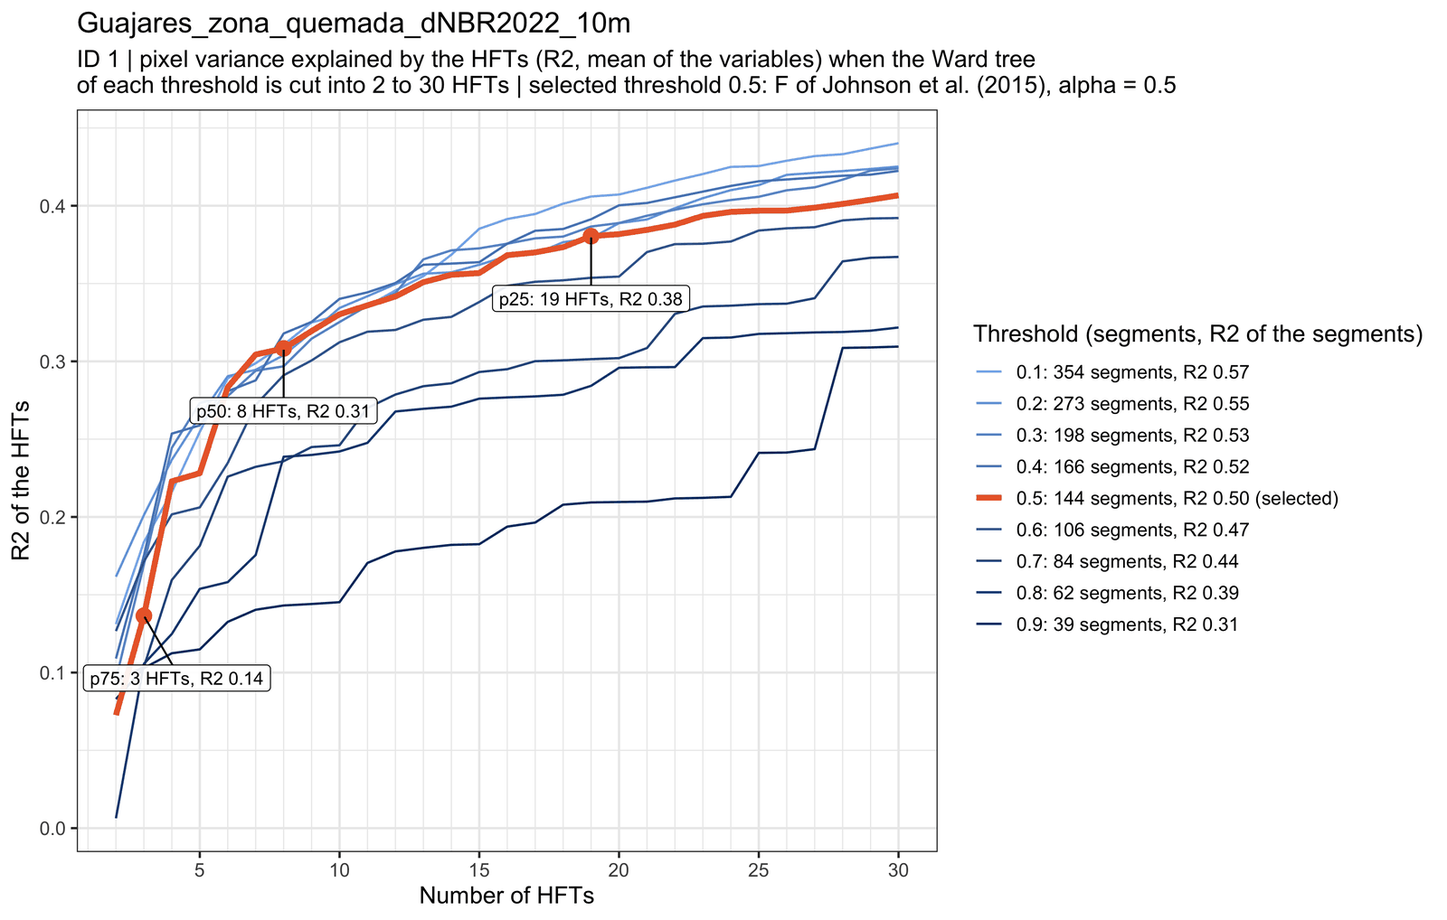
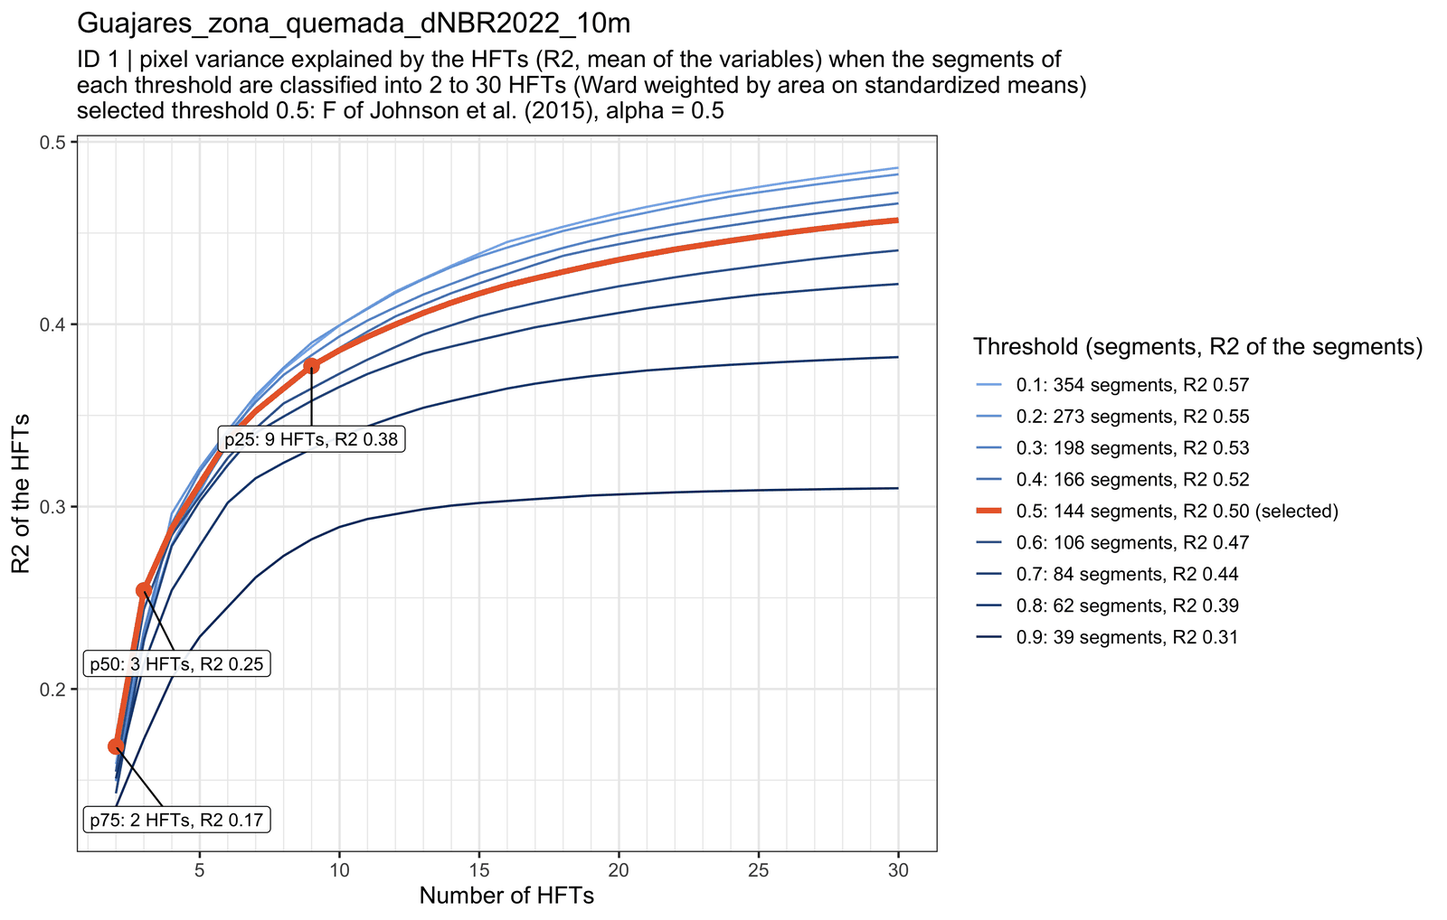
Classify the segments with Ward weighted by area by default
- New CLASS_METHOD option in config.py: 'ward_area' (default) joins the
  segments with Ward's method weighted by their number of pixels, on
  their mean (or median) of every variable standardised with the
  standard deviation of the pixels; 'ward_area_kmeans' adds a weighted
  k-means consolidation; 'ward' keeps the original method (means and
  variances rescaled 0-1, unweighted)
- The NMDS, the cophenetic correlation and the R² curves use the
  method chosen; CLASS_METHOD is an input of the last step in
  run_state.json
- README explains the methods in A6 with a test on the Guajares data
  (R², Jeffries-Matusita distance and silhouette of the HFTs), and the
  example R² figure is made with the new default

diff --git a/segm_optim/config.py b/segm_optim/config.py
@@ -89,6 +89,19 @@ THRESHOLD_ALPHA = 0.5
 #           segmentos deja menos segmentos sin vecinos.
 MORAN_NEIGHBOURS = 'rook'
 
+# CLASIFICACIÓN DE LOS SEGMENTOS DEL UMBRAL ELEGIDO EN HFTs (moranvar_plots.R), con el método de Ward:
+# 'ward_area'        = Ward ponderado por el nº de píxeles de cada segmento, sobre su media (o mediana,
+#                      STAT_AGG) de cada variable tipificada con la desviación típica de los píxeles: los
+#                      HFTs reducen al mínimo la varianza de los píxeles dentro de ellos.
+# 'ward_area_kmeans' = 'ward_area' y después k-medias ponderadas: cada segmento pasa al HFT de media más
+#                      próxima. Mejora algo la separabilidad, pero los HFTs de los cortes de SIMIL = 3 ya no
+#                      están exactamente anidados.
+# 'ward'             = Ward sin ponderar sobre las medias y las varianzas de los segmentos reescaladas a
+#                      0-1 (el método original de eHabitat+).
+# En la prueba con Guajares 'ward_area' dio HFTs más separables que 'ward' con todos los umbrales. Su árbol
+# tiene las uniones más altas al final, así que los cortes de SIMIL = 3 dan menos HFTs (README, A6).
+CLASS_METHOD = 'ward_area'
+
 # NÚMERO DE HFTs (corte del árbol de clasificación jerárquica en moranvar_plots.R):
 # 1 = Corta en el percentil 25 de las alturas de fusión, con límite superior de HFTs.
 # 2 = No agrupa segmentos: el número de HFTs lo fijan los límites superiores

diff --git a/segm_optim/hft_state.py b/segm_optim/hft_state.py
@@ -193,7 +193,7 @@ def step_inputs(step, cfg=None, state=None):
 	elif step == 'moranvar':
 		inputs = opts(('THRESHOLD_METHOD', 'f'), ('THRESHOLD_ALPHA', 0.5), ('MORAN_NEIGHBOURS', 'rook'))
 	else:
-		inputs = opts(('SIMIL', 2))
+		inputs = opts(('SIMIL', 2), ('CLASS_METHOD', 'ward_area'))
 		inputs['SCENARIO'] = repr(scenario_name(cfg))  # where the results are written
 	inputs['code'] = _code_sig(CODE[step])
 	return inputs

diff --git a/README.md b/README.md
@@ -493,6 +493,7 @@ are in Spanish; this table explains each option in English. The options marked
 | `THRESHOLD_METHOD` | you | `'f'` | How the segmentation threshold is chosen among 0.1 to 0.9: `'f'`, `'gs'`, `'gs_fixed'`, `'crossing'`, `'crossing_first'`, or a number for a fixed threshold (e.g. `0.5`). See below and [A5](#a5-optimal-segmentation-threshold). |
 | `THRESHOLD_ALPHA` | you | `0.5` | Only with `'f'`: weight of the variance inside the segments against Moran's I (`1` the same, `0.5` half, `2` double). |
 | `MORAN_NEIGHBOURS` | you | `'rook'` | Neighbours of a segment for Moran's I: `'rook'` the segments that share an edge with it, `'queen'` also those that only touch a corner. |
+| `CLASS_METHOD` | you | `'ward_area'` | How the segments are classified into HFTs: `'ward_area'` (Ward weighted by area on standardised means), `'ward_area_kmeans'` (the same and then weighted k-means) or `'ward'` (the original method). See below and [A6](#a6-classification-of-the-segments-into-hfts). |
 | `SIMIL` | you | `3` | How the classification tree is cut into HFTs: `1`, `2` or `3` (see below). |
 | `STAT_AGG` | you | `'mean'` | Statistic of each variable in each segment: `'mean'` or `'median'`. |
 | `SCENARIO` | you (or `run_hft.py`) | `'base'` | Name of the scenario: the results are written to `results/<STUDY_AREA>/<SCENARIO>`. Letters, digits, `-` and `_`; empty is `base`. |
@@ -530,7 +531,7 @@ Choosing the options:
   segments are homogeneous inside (low variance) and different from their
   neighbours (low Moran's I); they differ in how they weigh both measures.
   `'f'` (the default, with `THRESHOLD_ALPHA = 0.5`) was the most stable in a
-  test with the Guajares data, and with its threshold (0.5) up to about 10
+  test with the Guajares data, and with its threshold (0.5) up to about 8
   HFTs explain as much of the variance of the pixels as with finer
   thresholds, from fewer segments (144 against 354 at 0.1). `'gs'` is the classical Global Score and `'gs_fixed'` a
   version that does not depend on the thresholds tested. `'crossing'` is the
@@ -546,6 +547,18 @@ Choosing the options:
   the high thresholds unreliable (in Guajares 23 of the 39 segments of 0.9).
   `'queen'` counts those corners as neighbours. Each ID writes the number of
   segments without neighbours in `<id>_optim_thresholds.csv`.
+- **`CLASS_METHOD`**: `'ward_area'` groups the segments by their typical
+  conditions (mean or median of every variable), weighting each segment by
+  its area, so that the HFTs are as homogeneous as possible pixel by pixel. In
+  a test with the Guajares data its HFTs were more separable than those of the
+  original method (`'ward'`) at every threshold and number of HFTs. The
+  original method also groups the segments by their internal heterogeneity
+  (variances) and weighs every segment the same. `'ward_area_kmeans'` refines
+  the HFTs a little more, but the HFTs of the cuts of `SIMIL = 3` are then not
+  exactly nested. The tree of `'ward_area'` has its highest joins at the top,
+  so with `SIMIL = 3` the same cuts give fewer HFTs (in the example 9, 3 and
+  2 instead of 19, 8 and 3). [A6](#a6-classification-of-the-segments-into-hfts)
+  explains each method and the test. Changing it repeats only the last step.
 - **`SIMIL`** (read by `moranvar_plots.R`):
   - `3` (recommended to explore the results): the tree is cut at 25, 50 and
     75 % of its height, giving three classifications from detailed (`p25`,
@@ -652,7 +665,7 @@ warning.
 | 7. Segmentation | `GRASSDB`, `GRASSLOC`, `STUDY_AREA`, `COL_ID`, `RESOLUTION`, `ENV_VARS0`, `CLIP_TO_PA`, `PA_BUFFER`, `SEGM_PCA`, `SMALL_SEGM_RADIUS`, `palist.csv`, the data imported by `setup.py`, `segmentation_pca_par.py` |
 | 8. Statistics of the segments | `STAT_AGG`, `RESOLUTION`, `ENV_VARS`, the files of `../inVars`, `get_mean_median_var.py`, `ehab_segm_core.py` |
 | 9. Moran's I, variance and threshold | `THRESHOLD_METHOD`, `THRESHOLD_ALPHA`, `MORAN_NEIGHBOURS`, `moranvar.py` |
-| 9. HFTs and plots | `SIMIL`, `SCENARIO`, `moranvar_plots.R` (e.g. its option `upper`), `CreateRadialPlot.R` |
+| 9. HFTs and plots | `SIMIL`, `CLASS_METHOD`, `SCENARIO`, `moranvar_plots.R` (e.g. its option `upper`), `CreateRadialPlot.R` |
 
 When an input file (in `../inVars`, or the study area in `pa/`) changed since
 `setup.py` imported it, `run_hft.py` first runs `setup.py` again with the same
@@ -818,8 +831,10 @@ The examples below come from the Guajares dataset (one study area, ID 1, a
 burned area of 2022, with 7 variables at 10 m: maximum and minimum NDVI, NDWI,
 slope, mean annual temperature, annual precipitation and TWI), run with
 `PA_BUFFER = 5000` (5 km), `SMALL_SEGM_RADIUS = 10`, `SIMIL = 3` and
-`STAT_AGG = 'mean'`. The figures are those of that run (of the cut `p50`
-unless said otherwise), reduced in size; they are in `docs/img`. The paths
+`STAT_AGG = 'mean'`, with the original methods to choose the threshold and to
+classify the segments (`THRESHOLD_METHOD = 'crossing'`, `CLASS_METHOD =
+'ward'`). The figures are those of that run (of the cut `p50` unless said
+otherwise), reduced in size; they are in `docs/img`. The paths
 below are relative to the folder of the scenario,
 `results/<STUDY_AREA>/<SCENARIO>`.
 
@@ -879,8 +894,9 @@ shades of each colour are the HFTs of the finer cuts inside an HFT of `p75`.*
 <img src="docs/img/threshold_selection.png" width="460" alt="Rescaled Moran's I, variance and score of the F method for the nine thresholds, with the threshold 0.5 selected">
 
 *This figure and the next one come from a run with `PA_BUFFER = 500` and the
-default options of `THRESHOLD_METHOD`; the other figures of this section, from
-the run with `PA_BUFFER = 5000` and the original method (threshold 0.6).*
+default options (`THRESHOLD_METHOD = 'f'`, `CLASS_METHOD = 'ward_area'`); the
+other figures of this section, from the run with `PA_BUFFER = 5000` and the
+original methods (threshold 0.6).*
 
 - **x axis**: threshold index `k` (1 to 9 for thresholds 0.1 to 0.9).
 - **Black (M.I)**: Moran's I of the segment means, rescaled to 0-1 over the
@@ -935,8 +951,8 @@ between the HFTs (the eta² of an analysis of variance with the HFT as factor,
 the same eta2 as in the heatmap); the figure shows its mean over the
 variables. 0: the HFTs do not differ at all; 1: every HFT is uniform.
 
-- **Each line is a threshold**: the Ward tree of its segments (built as in
-  [A6](#a6-classification-of-the-segments-into-hfts)) cut into 2, 3, ... HFTs.
+- **Each line is a threshold**: its segments classified into 2, 3, ... HFTs
+  with `CLASS_METHOD` (as in [A6](#a6-classification-of-the-segments-into-hfts)).
   Light blue: fine thresholds; dark blue: coarse ones; thick orange: the
   selected threshold.
 - **Orange points**: the HFTs of the cuts of the selected threshold (`p25`,
@@ -947,15 +963,15 @@ variables. 0: the HFTs do not differ at all; 1: every HFT is uniform.
 R² always grows with the number of HFTs, so compare the thresholds at the
 same number of HFTs (vertically). A curve below the others means that the
 segments of that threshold mix different conditions and give worse HFTs. In
-the example the thresholds 0.1 to 0.5 give about the same R² up to about 10
+the example the thresholds 0.1 to 0.5 give about the same R² up to about 8
 HFTs, the finest ones gain a little with more HFTs, and 0.6 to 0.9 give
 clearly less. Along the selected curve, the number of HFTs where it
 flattens is the one beyond which more HFTs add little.
 
-The values are modest (0.31 for the 8 HFTs of `p50`) because some variables
+The values are modest (0.38 for the 9 HFTs of `p25`) because some variables
 vary mostly between neighbouring pixels: in `r2_<id>_cuts.csv` the R² of
-`p50` is 0.53 and 0.57 for temperature and precipitation, 0.28 to 0.36 for
-the vegetation and water indices, and 0.06 and 0.04 for slope and TWI.
+`p25` is 0.75 and 0.74 for temperature and precipitation, 0.28 to 0.38 for
+the vegetation and water indices, and 0.11 and 0.02 for slope and TWI.
 
 - `r2_<id>_hfts.csv`: one row per threshold and number of HFTs, with
   `threshold`, `segments`, `r2_segments`, `hfts`, `r2` (mean) and the R² of
@@ -978,15 +994,19 @@ were produced.
 <img src="docs/img/hclust_p50.png" width="420" alt="Ward dendrogram of the 104 segments with the 6 HFTs of the cut p50">
 
 The dendrogram of the Ward classification of the segments of the selected
-threshold. Each leaf is a segment (numbered by its row in
-`csv/park_<id>_hri_results<k>.csv`), and the height at which two branches
-join measures how different they are. The red boxes are the HFTs of this cut.
+threshold (`CLASS_METHOD`, named under the plot). Each leaf is a segment
+(numbered by its row in `csv/park_<id>_hri_results<k>.csv`), and the height
+at which two branches join measures how different they are; with
+`'ward_area'` it grows with the size of the groups, so the last joins are
+much higher. The red boxes are the HFTs of this cut (with
+`'ward_area_kmeans'`, before some segments move to the HFT of nearest mean).
 With `SIMIL = 3` the tree is the same in the three folders and only the boxes
 change: `p75` cuts it near the top (few broad HFTs), `p25` near the bottom
 (many detailed HFTs).
 
 The number under the plot is the **cophenetic correlation** between the
-distances of the tree and the original distances between segments: the closer
+distances of the tree and the original distances between segments (their
+Euclidean distances in the variables used to classify them): the closer
 to 1, the better the tree keeps them. Ward trees usually give moderate values
 (0.49 in the example), since they favour compact groups over keeping every
 distance.
@@ -1110,9 +1130,10 @@ temperature points towards HFTs 4 and 2.
 
 ![NMDS of the segments coloured by HFT](docs/img/nmds_p50.png)
 
-A non-metric multidimensional scaling of the segments using the same
-distances as the classification (means and variances of the variables), so
-it shows how the classification sees the segments.
+A non-metric multidimensional scaling of the segments using the distances
+between them that the classification uses (standardised means with
+`'ward_area'`; means and variances rescaled to 0-1 with `'ward'`), so it
+shows how the classification sees the segments.
 
 - **Points**: segments, coloured by HFT and sized by area, joined by a thin
   line to the centroid of their HFT (labelled box).
@@ -1514,7 +1535,8 @@ The methods were compared on ID 1 of the Guajares example (`PA_BUFFER = 500`,
 7 variables): with the thresholds 0.1 to 0.9, with four shorter ranges
 (0.1-0.8, 0.2-0.9, 0.1-0.7 and 0.3-0.9), leaving out each variable in turn,
 and with other neighbours for Moran's I. Then the segments of 0.4, 0.5 and
-0.7 were classified into HFTs and compared with the R² of
+0.7 were classified into HFTs (with `CLASS_METHOD = 'ward'`) and compared
+with the R² of
 [`r2_<id>_hfts.png`](#variance-explained-by-the-hfts-r2_id_hftspng).
 
 | `THRESHOLD_METHOD` | 0.1 to 0.9 | Other ranges | Without one variable | `'queen'` | 4 nearest segments |
@@ -1555,9 +1577,56 @@ every variable rescaled on its own.
 
 ### A6. Classification of the segments into HFTs
 
-`moranvar_plots.R` reads `csv/park_<id>_hri_results<k*>.csv` and, for every
-segment `s`, builds a vector with the statistic and the variance of every
-variable, each one rescaled to 0-1 over the segments of the ID:
+`moranvar_plots.R` reads `csv/park_<id>_hri_results<k*>.csv` and groups the
+segments of the selected threshold into HFTs with Ward's hierarchical
+clustering (Ward, 1963). `CLASS_METHOD` sets how the segments are described
+and weighted; the tree is then cut with `SIMIL`.
+
+#### Methods (`CLASS_METHOD`)
+
+**`'ward_area'` (default): Ward weighted by area on standardised means.**
+Each segment `s` is described by its statistic `m_{s,v}` (mean or median,
+`STAT_AGG`) of every variable, standardised with the standard deviation
+`σ_v` of the pixels of the ID (from the variance inside and between the
+segments, as `V^tot` in A5):
+
+```math
+z_{s,v} = \frac{m_{s,v} - \bar m_v}{\sigma_v}, \qquad
+\bar m_v = \frac{\sum_s n_s\,m_{s,v}}{\sum_s n_s}
+```
+
+A variable constant in the whole area gets `z = 0` and does not count; a
+segment without data in a variable gets the mean of the variable. The
+segments are then joined with Ward's criterion weighting each one by its
+number of pixels `n_s`: at every step the two groups `A` and `B` whose union
+least increases the sum of squares of the pixels within the groups,
+
+```math
+\Delta(A, B) = \frac{N_A\,N_B}{N_A + N_B}\,\lVert \bar{\mathbf z}_A - \bar{\mathbf z}_B \rVert^2
+```
+
+are joined (`N`: number of pixels; `z̄`: means weighted by area). This is
+`hclust(..., "ward.D2", members = n_s)` on the Ward distances
+`sqrt(2 Δ)` between segments, which gives the same tree as Ward's method on
+all the pixels, starting from the segments as groups. So the HFTs keep the
+variance of the pixels within them as low as possible (the R² of
+`r2_<id>_hfts.png` as high as possible), every variable weighs the same (in
+units of its standard deviation), and a large segment weighs more than a
+small fragment.
+
+**`'ward_area_kmeans'`: the same, then weighted k-means.** After each cut,
+every segment moves to the HFT with the nearest mean, and the means
+(weighted by area) are computed again, until no segment moves: k-means
+weighted by area starting from the HFTs of the tree, a usual way to
+consolidate a Ward classification. It can only lower the variance within the
+HFTs of that cut, but the HFTs of different cuts are no longer exactly nested:
+their colours and order follow the tree, and the boxes of the dendrogram show
+the HFTs before the consolidation. An HFT can be left without segments and
+disappear.
+
+**`'ward'`: the original method of eHabitat+.** Each segment is described by
+the statistic and the variance of every variable, each one rescaled to 0-1
+over the segments of the ID:
 
 ```math
 \mathbf{f}_s = \left(\tilde m_{s,1}, \dots, \tilde m_{s,n_v},\ \tilde\sigma^2_{s,1}, \dots, \tilde\sigma^2_{s,n_v}\right),
@@ -1566,14 +1635,78 @@ variable, each one rescaled to 0-1 over the segments of the ID:
 ```
 
 so the segments are compared by both their typical conditions and their
-internal heterogeneity, with the same weight for every variable.
+internal heterogeneity. The Euclidean distances between the vectors
+(`vegan::vegdist`) are joined with Ward's criterion without weights
+(`hclust(..., "ward.D2")`): every segment counts the same, whatever its size.
 
-1. **Distances and tree.** Euclidean distances between the vectors
-   (`vegan::vegdist`) and agglomerative hierarchical clustering with Ward's
-   criterion (`hclust(..., "ward.D2")`): at every step the two groups whose
-   merging least increases the total within-group sum of squares are joined.
-   The cophenetic correlation of the tree is computed for the dendrogram plot.
-2. **Cut of the tree** (`SIMIL`), with `h_max` the height of the last merge:
+The **cophenetic correlation** of the tree, shown in the dendrogram plot, is
+computed against the Euclidean distances between the segments in the
+variables of the method (`z` or `f`), which are also those of the NMDS.
+
+#### Test with the Guajares data
+
+The methods were compared with the segments of the thresholds 0.3, 0.4, 0.5
+and 0.7 of the Guajares example (`PA_BUFFER = 500`), cut into 2 to 20 HFTs,
+together with `'ward'` on the means only (without the variances; not an
+option). The separability of the HFTs was measured with the pixels of
+`../inVars`, standardised:
+
+- **R²**: part of the variance of the pixels between the HFTs, mean over the
+  variables (as in `r2_<id>_hfts.png`).
+- **Jeffries-Matusita distance (JM)** between every pair of HFTs, the usual
+  measure of class separability in remote sensing (Bruzzone et al., 1995).
+  With `μ` and `Σ` the mean vector and the covariance matrix of the pixels of
+  each HFT:
+
+  ```math
+  B = \frac{1}{8}(\boldsymbol\mu_a - \boldsymbol\mu_b)^T \Sigma^{-1} (\boldsymbol\mu_a - \boldsymbol\mu_b)
+      + \frac{1}{2}\ln\frac{|\Sigma|}{\sqrt{|\Sigma_a|\,|\Sigma_b|}},
+  \qquad \Sigma = \frac{\Sigma_a + \Sigma_b}{2},
+  \qquad JM = 2\,(1 - e^{-B})
+  ```
+
+  from 0 (same distribution of the pixels) to 2 (completely separable). Its
+  mean over all the pairs and its minimum (the least separable pair).
+- **Silhouette width** (Rousseeuw, 1987) of every segment on the
+  standardised means (how much closer it is to its HFT than to the next one,
+  from -1 to 1), averaged weighting by area.
+
+With the threshold 0.5 and 8 HFTs (the cut `p50` of `'ward'`):
+
+| `CLASS_METHOD` | R² | Mean JM | Minimum JM | Silhouette |
+|---|---|---|---|---|
+| `'ward'` | 0.31 | 1.35 | 0.30 | 0.11 |
+| `'ward'` on the means only | 0.34 | 1.30 | 0.63 | 0.19 |
+| `'ward_area'` | 0.37 | 1.61 | 0.78 | 0.21 |
+| `'ward_area_kmeans'` | 0.37 | 1.61 | 0.66 | 0.24 |
+
+- Over the four thresholds and 2 to 20 HFTs, `'ward_area'` gave a higher R²
+  and silhouette than `'ward'` in all the cases, a higher mean JM in 84 % of
+  them and a higher minimum JM (a single pair, more variable) in 61 %.
+- Most of the gain comes from leaving the variances out: they grow with the
+  size of the segment (Spearman correlation with its number of pixels 0.64
+  for temperature and 0.59 for precipitation), so they group the segments
+  partly by their size. Weighting by area and standardising add the rest.
+- With `'ward_area'`, the 9 HFTs of `p25` explain as much variance (R² 0.38)
+  as the 19 HFTs of `p25` of `'ward'`.
+- The maps change: the adjusted Rand index between the HFTs of `'ward'` and
+  `'ward_area_kmeans'` with 8 HFTs was 0.41.
+- `'ward_area_kmeans'` improves the silhouette a little more, but not the JM.
+
+The R² and the silhouette are measured on the means, which favours the
+methods that classify by them; the JM distance also accounts for the spread
+of the pixels within each HFT, and favours `'ward_area'` too. Even so the
+HFTs overlap (mean JM about 1.6, the least separable pair about 0.7): the
+environmental gradients are continuous. Not tested: mixtures of normal
+distributions (model-based clustering), fuzzy clustering, and Ward with
+spatial constraints (ClustGeo; Chavent et al., 2018), which gives more
+compact HFTs but, by construction, less separable ones.
+
+#### Cut of the tree and colours
+
+1. **Cut of the tree** (`SIMIL`), with `h_max` the height of the last merge
+   (with `'ward_area'` the heights grow with the size of the groups, so the
+   same fractions give fewer HFTs than with `'ward'`):
    - `SIMIL = 3`: cuts at heights `0.25 h_max`, `0.50 h_max` and `0.75
      h_max` (`p25`, `p50`, `p75`), with no limit on the number of HFTs;
    - `SIMIL = 1`: cut at the first quartile of the merging heights;
@@ -1592,7 +1725,7 @@ internal heterogeneity, with the same weight for every variable.
    with `N` the number of pixels analysed. If a cut gives a single HFT, every
    segment is taken as its own HFT. The figures are drawn when there are at
    least two HFTs.
-3. **Colours.** Set1 palette (interpolated beyond 8 HFTs). With `SIMIL = 3`,
+2. **Colours.** Set1 palette (interpolated beyond 8 HFTs). With `SIMIL = 3`,
    `hier_colours()` takes the cuts with more than one HFT from the broadest to
    the finest: each HFT of the broadest cut keeps its Set1 colour; inside it,
    the HFTs of the finest cut get positions from 0 to 1 in the order of the
@@ -1609,7 +1742,8 @@ internal heterogeneity, with the same weight for every variable.
   are rasterised on the grid of the first variable and, for every segment
   `s` and variable `v`, the number of pixels `n_s`, the sum `S_s` and the sum
   of squares `Q_s` of the pixel values (centred on their mean) are added up.
-  The Ward tree of the threshold (A6) is cut into 2, 3, ... HFTs and, for
+  The segments of the threshold are classified with `CLASS_METHOD` (A6) into
+  2, 3, ... HFTs and, for
   every partition, with `N_h` and `S_h` the sums over the segments of HFT `h`
   and `N`, `S`, `Q` over all of them:
 
@@ -1653,8 +1787,8 @@ internal heterogeneity, with the same weight for every variable.
   `sqrt(qchisq(0.5, 2))`), and the arrows the loadings (eigenvectors times the
   square root of the eigenvalues, i.e. the correlations between variables and
   components), all scaled together to the size of the plot.
-- **NMDS**: `vegan::metaMDS` (2 dimensions, `set.seed(1)`) on the distance
-  matrix of the classification; centroids are the mean position of the
+- **NMDS**: `vegan::metaMDS` (2 dimensions, `set.seed(1)`) on the distances
+  between the segments of the classification (A6); centroids are the mean position of the
   segments of every HFT and ellipses normal at the 68 % level
   (`stat_ellipse`); vectors from `vegan::envfit` of the segment means with
   999 permutations (`set.seed(1)`), drawn with length `sqrt(r2)`.
@@ -1740,14 +1874,22 @@ first step that is out of date and all the steps after it, and
 
 ### References
 
-- Espindola, G. M., Câmara, G., Reis, I. A., Bins, L. S., & Monteiro, A. M.
-  (2006). Parameter selection for region-growing image segmentation
-  algorithms using spatial autocorrelation. *International Journal of Remote
-  Sensing*, 27(14), 3035-3040.
 - Böck, S., Immitzer, M., & Atzberger, C. (2017). On the objectivity of the
   objective function: problems with unsupervised segmentation evaluation
   based on Global Score and a possible remedy. *Remote Sensing*, 9(8), 769.
   https://doi.org/10.3390/rs9080769
+- Bruzzone, L., Roli, F., & Serpico, S. B. (1995). An extension of the
+  Jeffreys-Matusita distance to multiclass cases for feature selection. *IEEE
+  Transactions on Geoscience and Remote Sensing*, 33(6), 1318-1321.
+  https://doi.org/10.1109/36.477187
+- Chavent, M., Kuentz-Simonet, V., Labenne, A., & Saracco, J. (2018).
+  ClustGeo: an R package for hierarchical clustering with spatial
+  constraints. *Computational Statistics*, 33(4), 1799-1822.
+  https://doi.org/10.1007/s00180-018-0791-1
+- Espindola, G. M., Câmara, G., Reis, I. A., Bins, L. S., & Monteiro, A. M.
+  (2006). Parameter selection for region-growing image segmentation
+  algorithms using spatial autocorrelation. *International Journal of Remote
+  Sensing*, 27(14), 3035-3040.
 - Georganos, S., Lennert, M., Grippa, T., Vanhuysse, S., Johnson, B., &
   Wolff, E. (2018). Normalization in unsupervised segmentation parameter
   optimization: a solution based on local regression trend analysis.
@@ -1761,4 +1903,10 @@ first step that is out of date and all the steps after it, and
 - Murtagh, F., & Legendre, P. (2014). Ward's hierarchical agglomerative
   clustering method: which algorithms implement Ward's criterion? *Journal of
   Classification*, 31, 274-295.
-
+- Rousseeuw, P. J. (1987). Silhouettes: a graphical aid to the
+  interpretation and validation of cluster analysis. *Journal of
+  Computational and Applied Mathematics*, 20, 53-65.
+  https://doi.org/10.1016/0377-0427(87)90125-7
+- Ward, J. H. (1963). Hierarchical grouping to optimize an objective
+  function. *Journal of the American Statistical Association*, 58(301),
+  236-244. https://doi.org/10.1080/01621459.1963.10500845
